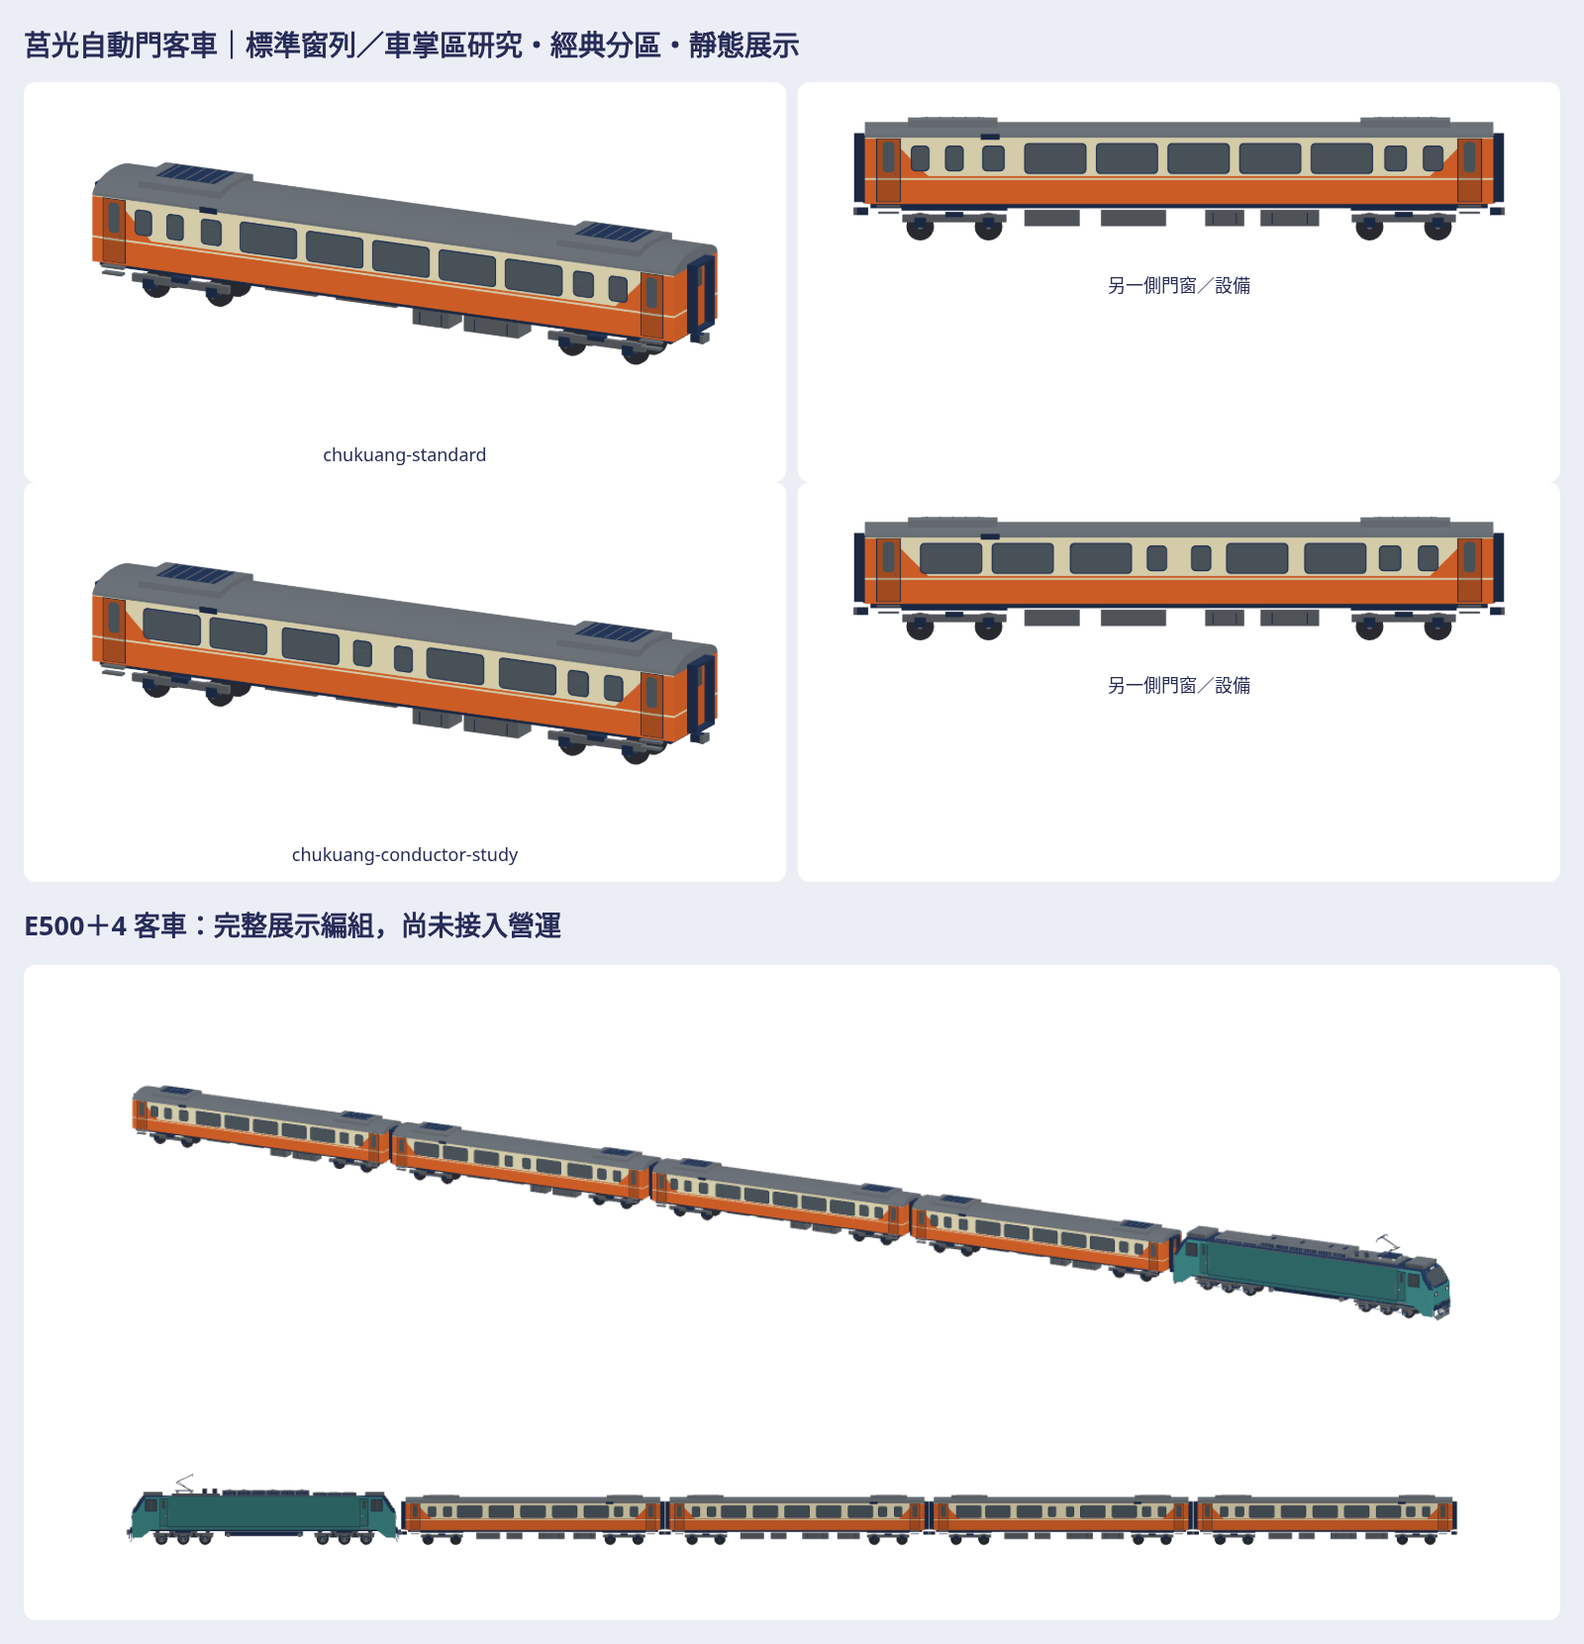
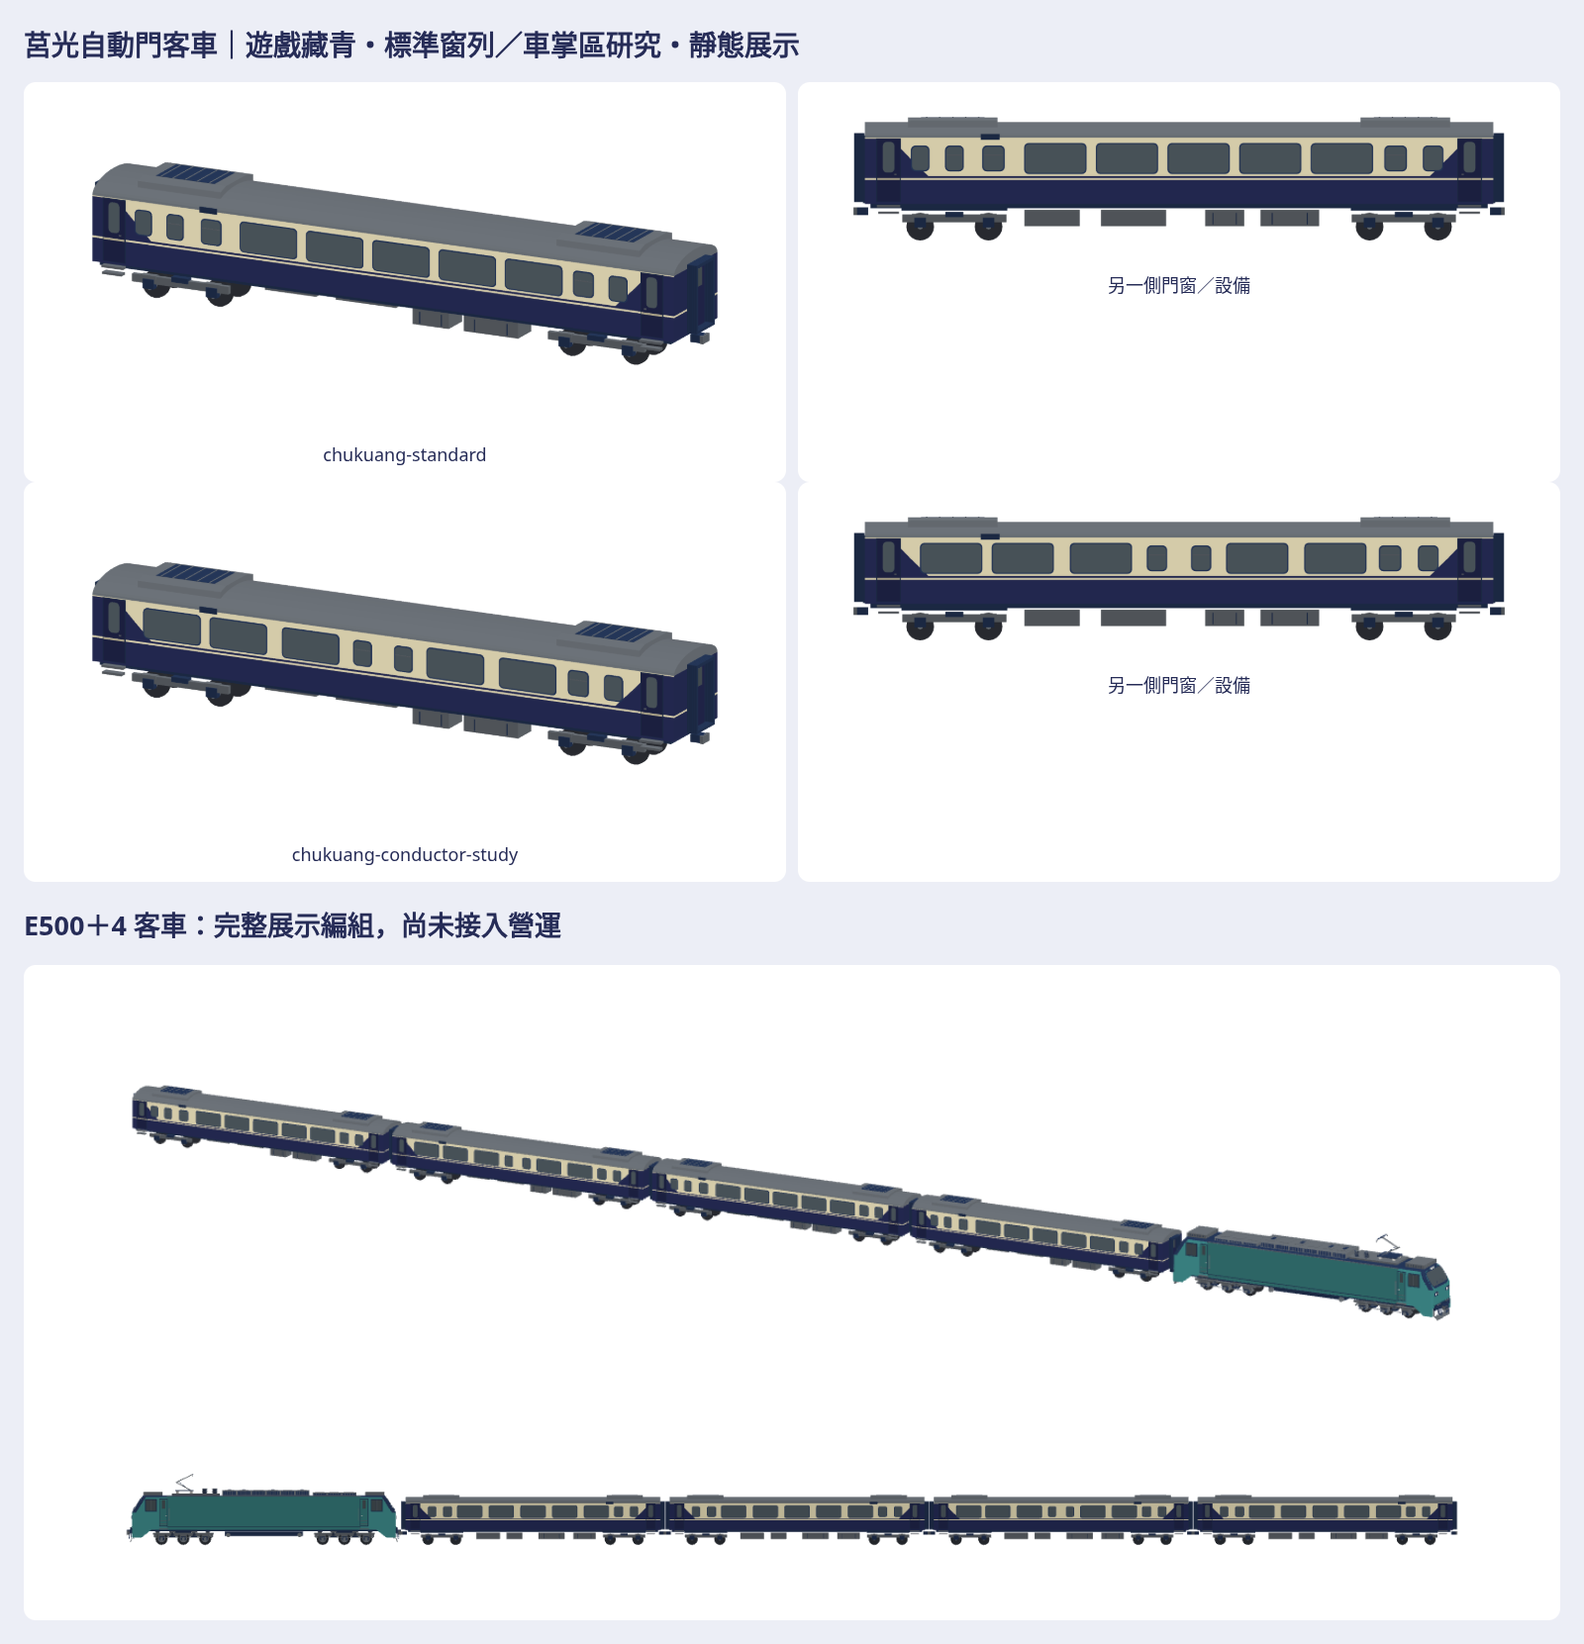
Change Chu-Kuang orange to game navy and make coach tests compatible with CI shards
Agent: Codex

diff --git a/Sources/GamePresentation/Map3DChuKuangPassenger.swift b/Sources/GamePresentation/Map3DChuKuangPassenger.swift
@@ -7,7 +7,7 @@ public enum Map3DChuKuangPassenger {
     public static let bodyHalfLength: Float = 9.65
     public static let couplingHalfLength: Float = 10.0
     public static let gangwayHalfLength: Float = 9.98
-    public static let bodyColor = Map3DColor.rgb(UInt32(TrainLivery.chuKuangCoach))
+    public static let bodyColor = Map3DColor.rgb(0x262C57)
     public static let glassColor = Map3DE500.glassColor
     public static func model(_ role: Role, far: Bool = false) -> Map3DModelPack.Model {
         var b = StationKitBuilder(); b.chuBody(role, far: far)
@@ -63,7 +63,7 @@ extension StationKitBuilder {
     }
 
     fileprivate mutating func chuBody(_ role: Map3DChuKuangPassenger.Role, far: Bool) {
-        let orange = Map3DChuKuangPassenger.bodyColor, cream = Map3DColor.rgb(0xECE2BC)
+        let navy = Map3DChuKuangPassenger.bodyColor, cream = Map3DColor.rgb(0xECE2BC)
         let dark = Self.ink, steel = Self.steel, tire = Map3DStreetModel.tyre
         let half = Map3DChuKuangPassenger.bodyHalfLength
         // Closed shell rings: the classic end sweep is IN the body surface.
@@ -92,14 +92,14 @@ extension StationKitBuilder {
             if i==2 || i==n-2 {color=cream} // 60mm waist line, both real side faces
             else if i>=5 && i<5+steps {color=steel}
             else if i==4 || i==n-4 {color=cream}
-            else {color=orange}
+            else {color=navy}
             face([rings[k][i],rings[k][j],rings[k+1][j],rings[k+1][i]],inside:inside,color:color)
         }}
         for end:Float in [-1,1] {
             let x=end*half
             let levels:[Float]=[1.12,1.86,1.92,boundary(x),3.16]
             for i in 0..<levels.count-1 {
-                face([Map3DPoint(x,levels[i],-1.44),Map3DPoint(x,levels[i],1.44),Map3DPoint(x,levels[i+1],1.44),Map3DPoint(x,levels[i+1],-1.44)],inside:inside,color:i==1 ? cream:orange)
+                face([Map3DPoint(x,levels[i],-1.44),Map3DPoint(x,levels[i],1.44),Map3DPoint(x,levels[i+1],1.44),Map3DPoint(x,levels[i+1],-1.44)],inside:inside,color:i==1 ? cream:navy)
             }
             let roof=rings[end<0 ? 0:rings.count-1]
             face(Array(roof[5...5+steps]),inside:inside,color:steel)
@@ -134,7 +134,7 @@ extension StationKitBuilder {
             for end:Float in [-1,1] {
                 let x=end*8.92
                 box(x,1.18,side*1.446,0.76,0.012,1.96,dark)
-                box(x,1.20,side*1.457,0.70,0.010,1.92,orange)
+                box(x,1.20,side*1.457,0.70,0.010,1.92,navy)
                 chuSideWindow(x,2.56,side:side,width:0.36,height:0.94,far:far)
                 box(x,1.86,side*1.468,0.70,0.012,0.06,cream)
                 box(x,1.02,side*1.49,0.72,0.20,0.07,steel)
@@ -145,7 +145,7 @@ extension StationKitBuilder {
         }
         for end:Float in [-1,1] {
             box(end*9.68,1.15,0,0.06,0.96,2.08,dark)
-            box(end*9.72,1.20,0,0.025,0.83,1.96,orange)
+            box(end*9.72,1.20,0,0.025,0.83,1.96,navy)
             box(end*9.74,2.48,0,0.016,0.46,0.55,Map3DChuKuangPassenger.glassColor)
             let folds=far ? 2:5
             for i in 0..<folds {let x=end*(9.66+(Float(i)+0.5)*0.32/Float(folds))

diff --git a/Tests/GamePresentationTests/Map3DChuKuangPassengerTests.swift b/Tests/GamePresentationTests/Map3DChuKuangPassengerTests.swift
@@ -1,25 +1,25 @@
-import Testing
+import XCTest
 @testable import GamePresentation
 
-struct Map3DChuKuangPassengerTests {
-    @Test func unitsAreDistinctAndLegal() {
+final class Map3DChuKuangPassengerTests: XCTestCase {
+    func testUnitsAreDistinctAndLegal() {
         for role in Map3DChuKuangPassenger.Role.allCases {
             let near=Map3DChuKuangPassenger.model(role), far=Map3DChuKuangPassenger.model(role,far:true)
-            #expect(near.triangleCount < 15_000)
-            #expect(far.triangleCount < near.triangleCount)
-            #expect(far.triangleCount < 4_100)
-            #expect(abs(near.minimum.z) < 0.0001)
-            #expect(abs(near.length-20) < 0.001)
-            #expect(near.vertices.allSatisfy { $0.x.isFinite && $0.y.isFinite && $0.z.isFinite })
+            XCTAssertTrue(near.triangleCount < 15_000)
+            XCTAssertTrue(far.triangleCount < near.triangleCount)
+            XCTAssertTrue(far.triangleCount < 4_100)
+            XCTAssertTrue(abs(near.minimum.z) < 0.0001)
+            XCTAssertTrue(abs(near.length-20) < 0.001)
+            XCTAssertTrue(near.vertices.allSatisfy { $0.x.isFinite && $0.y.isFinite && $0.z.isFinite })
         }
-        #expect(Map3DChuKuangPassenger.windows(.standard,left:true).count == 9)
-        #expect(Map3DChuKuangPassenger.windows(.standard,left:true).filter{$0.1>1}.count == 5)
-        #expect(Map3DChuKuangPassenger.model(.standard).vertices.map(\.x) != Map3DChuKuangPassenger.model(.conductorStudy).vertices.map(\.x))
+        XCTAssertTrue(Map3DChuKuangPassenger.windows(.standard,left:true).count == 9)
+        XCTAssertTrue(Map3DChuKuangPassenger.windows(.standard,left:true).filter{$0.1>1}.count == 5)
+        XCTAssertTrue(Map3DChuKuangPassenger.model(.standard).vertices.map(\.x) != Map3DChuKuangPassenger.model(.conductorStudy).vertices.map(\.x))
     }
-    @Test func studyDoesNotReplaceOperatingCars() {
+    func testStudyDoesNotReplaceOperatingCars() {
         let names=Set(Map3DModelPack.standard.models.map(\.name))
-        #expect(!names.contains("chukuang-standard"))
-        #expect(names.contains("set-E500CK-car"))
-        #expect(names.contains("pp-ppt1000"))
+        XCTAssertTrue(!names.contains("chukuang-standard"))
+        XCTAssertTrue(names.contains("set-E500CK-car"))
+        XCTAssertTrue(names.contains("pp-ppt1000"))
     }
 }

diff --git a/tools/chukuang-coaches/export.swift b/tools/chukuang-coaches/export.swift
@@ -82,7 +82,7 @@ if let previous=ProcessInfo.processInfo.environment["CHU_PREVIOUS"] {
  let base=URL(fileURLWithPath:previous),old=try JSONSerialization.jsonObject(with:Data(contentsOf:base.appendingPathComponent("manifest.json"))) as! [String:Any]
  for var r in old["models"] as! [[String:Any]] where (r["category"] as? String)=="section" {
   let original=r["id"] as! String,id="previous-"+original,file="models/\(id).m3dmodel",d=try Data(contentsOf:base.appendingPathComponent(r["native"] as! String))
-  try d.write(to:output.appendingPathComponent(file));r["id"]=id;r["name"]=id;r["native"]=file;r["category"]="comparison";r["family"]="genuine-first-pass";records.append(r)
+  try d.write(to:output.appendingPathComponent(file));r["id"]=id;r["name"]=id;r["native"]=file;r["category"]="comparison";r["family"]="genuine-delivered-orange-revision";r["source_producer_commit"]=old["producer_commit"];records.append(r)
  }
 }
 if let baseline=ProcessInfo.processInfo.environment["CHU_BASELINE"] {

diff --git a/tools/chukuang-coaches/paint-audit.py b/tools/chukuang-coaches/paint-audit.py
@@ -1,0 +1,54 @@
+"""Exact native payload audit for orange -> game navy. No geometry subdivision allowed."""
+from pathlib import Path
+import sys,json,struct,hashlib,copy
+import numpy as np
+out,prior=map(Path,sys.argv[1:]);new=json.loads((out/'manifest.json').read_text());old=json.loads((prior/'manifest.json').read_text())
+def rows(p):
+ b=p.read_bytes();n,size=struct.unpack_from('<II',b,8);start=16+(size+3)//4*4
+ assert len(b)==start+n*52
+ return [b[start+i*52:start+(i+1)*52] for i in range(n)]
+def rgb(h):return 0xff000000|((h&255)<<16)|(h&0xff00)|((h>>16)&255)
+def shade(c,factor):return 0xff000000|sum(int(np.floor(np.float32((c>>(8*i))&255)*np.float32(factor)+.5))<<(8*i) for i in range(3))
+a,b=rgb(0xE2662A),rgb(0x262C57);allowed={a:b,**{shade(a,f):shade(b,f) for f in [.7,.8,.86,.92]}}
+def audit(before,after):
+ assert len(before)==len(after),'triangle topology count changed'
+ changes=0
+ for x,y in zip(before,after):
+  assert x[:4]==y[:4],'layer/glow flags changed'
+  p=[];q=[]
+  for i in range(3):
+   at=4+i*16
+   assert x[at:at+12]==y[at:at+12],'actual vertex position/topology changed'
+   p.append(struct.unpack_from('<fff',x,at));q.append(struct.unpack_from('<fff',y,at))
+   c,d=struct.unpack_from('<I',x,at+12)[0],struct.unpack_from('<I',y,at+12)[0]
+   assert d==allowed.get(c,c),'non-orange paint changed or wrong navy'
+   changes+=c!=d
+  def normal(t):
+   t=np.array(t);n=np.cross(t[1]-t[0],t[2]-t[0]);return (n/np.linalg.norm(n)).astype('<f4').tobytes()
+  assert normal(p)==normal(q),'actual face normal changed'
+ assert changes>0,'no orange paint changed'
+ return changes
+records=[];oldmodels={m['id']:m for m in old['models']}
+for m in new['models']:
+ if m['category']!='section':continue
+ n=m['id'];before=rows(prior/oldmodels[n]['native']);after=rows(out/m['native']);changed=audit(before,after)
+ # A real corner movement and a non-orange colour corruption must fail.
+ moved=list(after);v=bytearray(moved[0]);struct.pack_into('<f',v,4,struct.unpack_from('<f',v,4)[0]+.005);moved[0]=bytes(v)
+ try:audit(before,moved)
+ except AssertionError:pass
+ else:raise AssertionError('moved vertex was accepted')
+ bad=list(after)
+ for i,t in enumerate(before):
+  at=next((4+j*16+12 for j in range(3) if struct.unpack_from('<I',t,4+j*16+12)[0] not in allowed),None)
+  if at is not None:
+   v=bytearray(bad[i]);struct.pack_into('<I',v,at,b);bad[i]=bytes(v);break
+ try:audit(before,bad)
+ except AssertionError:pass
+ else:raise AssertionError('non-orange repaint accepted')
+ records.append({'id':n,'triangles':len(after),'recoloured_vertices':changed,'geometry_flags_topology_normals':'byte-identical / normals recomputed','mutations_rejected':['5mm actual corner shift','recolour non-orange vertex']})
+for n in ['e500','e500-far','emu3000-ed','before-chukuang-standard']:
+ m=next(m for m in new['models'] if m['id']==n);o=oldmodels[n]
+ assert (out/m['native']).read_bytes()==(prior/o['native']).read_bytes(),n
+ assert (out/m['glb']).read_bytes()==(prior/o['glb']).read_bytes(),n
+result={'status':'VERIFIED','producer_commit':new['producer_commit'],'previous_producer_commit':old['producer_commit'],'palette_pairs':{hex(k):hex(v) for k,v in allowed.items()},'models':records,'protected_native_and_glb':['e500','e500-far','emu3000-ed','before-chukuang-standard'],'no_surface_subdivision':True,'limits':'Exact virtual-model payload comparison, not engineering accuracy or animation proof.'}
+(out/'paint-verification.json').write_text(json.dumps(result,indent=2)+'\n');print('VERIFIED paint-only change for',len(records),'near/far units')

diff --git a/tools/chukuang-coaches/bundle.py b/tools/chukuang-coaches/bundle.py
@@ -18,7 +18,7 @@ assert (root/'previews/overview.png').read_bytes()==Path('docs/art/chukuang-coac
 for model in m['models']:
  for kind in ['native','glb']:assert sha((root/model[kind]).read_bytes())==model[kind+'_sha256']
  for direction,metric in model['view_metrics'].items():assert sha((root/model['views'][direction]).read_bytes())==metric['sha256']
-(root/'source.json').write_text(json.dumps({'producer_commit':producer,'base_commit':'1b40e4f4','accepted_emu3000_producer':'66a515e8f84ddb5001bae2dd0ce5d79f49063113','accepted_e500_producer':'85647d0a5e5eaaebdcdee1d5bc512fd931ee6c3a','files':records,'limits':'E500 comparison uses its own accepted source producer. Chu-Kuang first pass, when present, is genuine earlier exported geometry, not an invented baseline. Source records describe code inputs, not engineering measurement accuracy.'},indent=2)+'\n')
+(root/'source.json').write_text(json.dumps({'producer_commit':producer,'base_commit':'1b40e4f4','accepted_emu3000_producer':'66a515e8f84ddb5001bae2dd0ce5d79f49063113','accepted_e500_producer':'85647d0a5e5eaaebdcdee1d5bc512fd931ee6c3a','files':records,'limits':'E500 comparison uses its own accepted source producer. Chu-Kuang previous comparison uses the genuine delivered orange revision, not an invented baseline. Source records describe code inputs, not engineering measurement accuracy.'},indent=2)+'\n')
 excluded={'asset-package.zip','package-verification.json','SHA256SUMS'}
 files=sorted(p for p in root.rglob('*') if p.is_file() and p.name not in excluded)
 (root/'SHA256SUMS').write_text(''.join(sha(p.read_bytes())+'  '+str(p.relative_to(root))+'\n' for p in files))

diff --git a/docs/art/chukuang-coaches-2026-10-26/README.md b/docs/art/chukuang-coaches-2026-10-26/README.md
@@ -1,3 +1,19 @@
+# 莒光自動門客車：遊戲藏青塗裝（第二版）
+
+使用者2026-10-27指定「把橘色改成遊戲藏青」。僅將兩角色近遠客車的橘色改為既有遊戲藏青 `#262C57`（含既有box側面／底面0.70、0.80、0.86、0.92倍陰色），米色分區、腰線、玻璃、灰屋頂與其他色保持。車殼、門窗、空調、輪組、設備與編組實際位置／法線／三角拓樸保持，沒有色塊細分。E500／EMU3000／PP／E1000原生payload保持。
+
+真正橘色前版producer `5952e905f0dc07311f554018ccf9b37c29e4f74b`、私庫 `d60b4fc2b388f1b6a2ec02f1ad3711f025557b3d` 完整保留於私庫原目錄；本版在 `revision-2/`。前版未被使用者明確接受，不稱已接受。`orange-vs-navy-*`直接比較真前版與新稿，固定相機／公尺尺度；舊base通用車比較另列。原始照片／車型辨識紀錄仍適用幾何，經典橘只作歷史來源，本版塗裝以使用者新指示為準。
+
+`paint-audit.py`核每個實際52-byte三角：flags、三頂點位置bytes及重算法線保持，只允許橘→藏青及其既有box陰色對；其他色、三角數及受保護單元保持。實際移動頂點與錯改米色反例須拒收，不只比bounds。原生近遠四向配色／白模／剪影、七向、編組、GLB、viewer、ZIP全量重出並查看。
+
+修復第一版CI問題：兩項新測試原用Swift Testing，與既有shard工具只接受XCTest ID不相容；改為同斷言XCTest，未修改共用CI工具或降低測試。故本版17項相關測試均為XCTest。CI實際結果見同producer checks。
+
+**尚未接入營運**，合併後沒有任何編組改用本批。真機Metal／效能／人工Simulator外觀、輪門動畫、懸吊與完整碰撞仍UNVERIFIED。公開draft #1306 ↔ 私有draft #90；重建見tools/chukuang-coaches/README.md。不改GameCore／存檔／golden/replay，不合併／auto-merge／TestFlight。
+
+---
+
+以下保留第一版來源／幾何製作歷史；其中橘色、第一輪比較與Swift Testing描述僅屬第一版，不代表本版現況。
+
 # 莒光自動門客車經典塗裝研究
 
 本批是獨立原生配方及靜態展示，**尚未接入營運**。合併後沒有營運編組改用本批模型；E200CK／E500CK／R100CK／R200CK／SUMMER、PP、鳴日及環島之星保持原接點。現行型錄只指定莒光等級，沒有確立本批 10400 系的專用年代／系列配置，故不以同一牽引機車作替換依據。

diff --git a/docs/HANDOFF.md b/docs/HANDOFF.md
@@ -1771,3 +1771,5 @@ TEMU1000 原生外形（Codex，issue #1228，公開 draft #1230／私庫 draft 
 獨立 `Map3DChuKuangPassenger` 標準10400系研究與中央小窗特殊配置研究，近遠原生、七向、GLB、E500＋四客車展示、真第一輪與base通用客車同尺度比較、viewer／ZIP在互鏈公開／私有draft，索引見 [自有交接](art/chukuang-coaches-2026-10-26/README.md)。私庫確有juguang壓縮原mesh，已實際解壓四向查看及追查其10400來源；原左右鏡像／寬門／遠景整窗帶與照片有差異，故不只換色，也不套PP殼。標準左右窗不同；特殊角色不冒稱已確認11400。232份既有實際payload保持，E500第三版與EMU3000第五版比較素材直接讀已接受私包。
 
 **尚未接入營運**：未找到已確認至子系列的專用編組配置，合併後沒有列車自動改用本批；E200CK/E500CK/R100CK/R200CK/SUMMER/PP/MINGRI/STAR現有接點保持。Linux指定Swift6.4／warnings-as-errors、原生／匯出／下載驗證與最新同head CI分開看issue及私包證據；人工Simulator外觀、真機Metal／效能／輪門動畫與動態碰撞未驗，外觀未經使用者接受。不動GameCore／存檔／golden／replay，不合併／auto-merge／TestFlight。下次修訂先保留本批真最終包，再改配方並全量重出。
+
+2026-10-27莒光第二版：使用者指定橘改遊戲藏青#262C57；只改兩角色近遠的橘色及原底面陰色，米色／腰線／幾何／其他色保持，paint-audit逐三角位置／法線／拓樸核對。真5952e905橘色前版完整保持，私庫新revision-2；全量素材與同尺度橘／藏青前後見自有交接及#1305。另將本批兩項Swift Testing改同斷言XCTest，修正第一版shard ID不相容的紅CI。營運仍未接入，GameCore／存檔／fixtures不動，真機／動畫未驗。

diff --git a/tools/chukuang-coaches/README.md b/tools/chukuang-coaches/README.md
@@ -10,11 +10,12 @@ export NODE_PATH=/opt/codex/cua_node/lib/node_modules
 swift build --build-tests -Xswiftc -warnings-as-errors -j 4
 swift test --skip-build --filter 'Map3DChuKuangPassengerTests|Map3DModelFileTests|Map3DModelTests'
 tools/chukuang-coaches/capture.sh BASE_WORKTREE BASE_CAPTURE
-# BASE_WORKTREE固定1b40e4f4；FIRST_PASS是本次真第一輪，不能用新輸出自比。
-CHU_BASELINE=BASE_CAPTURE/before-chukuang-standard.m3dmodel CHU_PREVIOUS=FIRST_PASS CHU_ACCEPTED_EMU3000=ACCEPTED_EMU3000_REVISION_5 CHU_ACCEPTED_E500=ACCEPTED_E500_REVISION_3 PRODUCER_COMMIT=PRODUCER tools/chukuang-coaches/export.sh OUT
+# BASE_WORKTREE固定1b40e4f4；PREVIOUS_ORANGE是已交付橘色前版，不能用新輸出自比。
+CHU_BASELINE=BASE_CAPTURE/before-chukuang-standard.m3dmodel CHU_PREVIOUS=PREVIOUS_ORANGE CHU_ACCEPTED_EMU3000=ACCEPTED_EMU3000_REVISION_5 CHU_ACCEPTED_E500=ACCEPTED_E500_REVISION_3 PRODUCER_COMMIT=PRODUCER tools/chukuang-coaches/export.sh OUT
 node tools/chukuang-coaches/review.mjs OUT
 # 親自查看四個近遠角色review；主要偏差要修並全量重出。
 node tools/chukuang-coaches/verify.mjs OUT
+python3 tools/chukuang-coaches/paint-audit.py OUT PREVIOUS_ORANGE
 python3 tools/chukuang-coaches/support-audit.py OUT
 node tools/chukuang-coaches/render.mjs OUT
 blender -b --python tools/chukuang-coaches/glb-audit.py -- OUT
